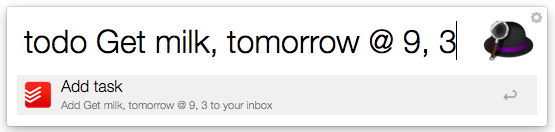
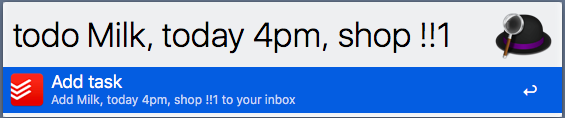
Added 'add to project' and 'add label to task features'

diff --git a/src/index.js b/src/index.js
@@ -51,14 +51,11 @@ var calls = {
    * Get a list of projects from Todoist.
    *
    * @author moranje <martieno@gmail.com>
+   * @param {String} name The project's name.
    * @since  2016-07-04
    * @return {Object}
    */
-  getProjects: function() {
-    var list = {
-      items: []
-    };
-
+  getProjects: function( name ) {
     todoist.getProjects( settings.token, function( res ) {
       var response = JSON.parse( res );
       var projects = {};
@@ -67,9 +64,41 @@ var calls = {
         projects[ project.name.toLowerCase() ] = project.id;
       } );
 
-      settings.projects = projects;
+      if ( name ) {
+        return echo( projects[ name ] );
+      }
 
-      return echo( 'Projects updated' );
+      return echo( projects );
+    }, function( err ) {
+      // The 'Error' suffix signals something has failed to the notification
+      // handler
+      console.log( 'Error', err );
+    } );
+  },
+
+  /**
+   * Get a list of labels from Todoist.
+   *
+   * @author moranje <martieno@gmail.com>
+   * @param {String} string The label names string.
+   * @since  2016-07-04
+   * @return {Object}
+   */
+  getLabels: function( string ) {
+    todoist.getLabels( settings.token, function( res ) {
+      var response = JSON.parse( res );
+      var names = string.split( ',' );
+      var labels = [];
+
+      response.labels.forEach( function( label, index ) {
+        names.forEach( function ( name ) {
+          if ( string && name === label.name ) {
+            labels.push( label.id );
+          }
+        });
+      } );
+
+      return echo( labels );
     }, function( err ) {
       // The 'Error' suffix signals something has failed to the notification
       // handler
@@ -81,11 +110,12 @@ var calls = {
    * Mark a todo item 'done'.
    *
    * @author moranje <martieno@gmail.com>
+   * @param {String|Number} id The task's id.
    * @since  2016-07-03
    * @return {String}
    */
-  markDone: function() {
-    todoist.markTaskDone( arg, settings.token, function( res ) {
+  markDone: function( id ) {
+    todoist.markTaskDone( id, settings.token, function( res ) {
       // Notification message.
       echo( 'Done, done and done!' );
     }, function( err ) {
@@ -111,4 +141,4 @@ function echo( response ) {
 /**
  * This returns the call to the Todoist API
  */
-calls[ call ]();
+calls[ call ]( arg );

diff --git a/src/todoist.js b/src/todoist.js
@@ -86,6 +86,42 @@ function getTasks( token, success, error ) {
 }
 
 /**
+ * Get a list of projects.
+ *
+ * @author moranje <martieno@gmail.com>
+ * @since  2016-07-04
+ * @param  {String}   token   A Todoist token.
+ * @param  {Function} success The success callback.
+ * @param  {Function} error   The error callback.
+ * @return {String}
+ */
+function getProjects( token, success, error ) {
+  return api( {
+    token: token,
+    seq_no: 0,
+    resource_types: '["projects"]'
+  }, success, error );
+}
+
+/**
+ * Get a list of labels.
+ *
+ * @author moranje <martieno@gmail.com>
+ * @since  2016-08-23
+ * @param  {String}   token   A Todoist token.
+ * @param  {Function} success The success callback.
+ * @param  {Function} error   The error callback.
+ * @return {String}
+ */
+function getLabels( token, success, error ) {
+  return api( {
+    token: token,
+    seq_no: 0,
+    resource_types: '["labels"]'
+  }, success, error );
+}
+
+/**
  * Mark a task 'done'.
  *
  * @author moranje <martieno@gmail.com>
@@ -111,5 +147,7 @@ function markTaskDone( id, token, success, error ) {
 
 module.exports = {
   getTasks: getTasks,
+  getProjects: getProjects,
+  getLabels: getLabels,
   markTaskDone: markTaskDone
 };

diff --git a/README.md b/README.md
@@ -1,7 +1,7 @@
 # ALFRED TODOIST WORKFLOW
-Add tasks to your [Todoist](https://todoist.com/ "Todoist") inbox or list upcoming tasks straight from [Alfred](https://www.alfredapp.com "Alfred"). I nicked the idea from [Ruben Schmidtmann](https://github.com/rubenschmidtmann "Ruben Schmidtmann")'s [todoist-alfred-workflow](https://github.com/rubenschmidtmann/todoist-alfred-workflow "todoist-alfred-workflow"), and further expanded on it. It uses Todoist `v7` API.
+Add tasks to your [Todoist](https://todoist.com/ "Todoist") inbox or list upcoming tasks straight from [Alfred](https://www.alfredapp.com "Alfred"). I nicked the idea from [Ruben Schmidtmann](https://github.com/rubenschmidtmann "Ruben Schmidtmann")'s [todoist-alfred-workflow](https://github.com/rubenschmidtmann/todoist-alfred-workflow "todoist-alfred-workflow"), and further expanded on it. It uses Todoist `v7` API. For this workflow to work you need version `3.x` of Alfred.
 
-The task listing feature relies on javascript (sorry no PHP, perl of ruby foo) which means it needs node.js to function (OSX javascript proved to be clunky for modules and file io). The task adding feature should work on any Mac OSX version.
+The task listing feature, adding project and labels to tasks relies on javascript (sorry no PHP, perl of ruby foo) which means it needs node.js to function (OSX javascript proved to be clunky for modules and file io). The task adding feature should work on any Mac OSX version.
 
 ## Installation
 [Download](https://github.com/moranje/alfred-workflow-todoist/raw/master/dist/Alfred%20Workflow%20Todoist.alfredworkflow) and import workflow.
@@ -40,8 +40,10 @@ Uninstall Homebrew (terminal): _ruby -e "$(curl -fsSL https://raw.githubusercont
 ![](https://raw.githubusercontent.com/moranje/alfred-workflow-todoist/master/images/add-task.png "Add a task to your Todoist Inbox")  
 
 **Add a task**  
-`todo {task}, {date}, {priority}`  
-Example: _todo Get milk, tomorrow @ 9, 3_  
+`todo {task}, {date}, {project}` _{priority} and {labels} can go anywhere_  
+Example: _todo Get stuff done, tomorrow @ 9, work_  
+Example: _todo Build tree house, tomorrow @ 9, home !!2_  
+Example: _todo Get milk, tomorrow @ 9, home @on_road @5min  
 
 ### Task
 Can be any string as long as there are no comma's in it. Markdown in the string will be parsed, but anything else won't.
@@ -49,16 +51,31 @@ Can be any string as long as there are no comma's in it. Markdown in the string 
 ### Date
 See the [Todoist documentation](https://support.todoist.com/hc/en-us/articles/205325931-Dates-and-Times "Todoist documentation") for supported date formats.
 
-### Priority
-A number between 1 and 4, where 1 is the lowest and 4 would be the highest priority.
+### Project*
+Add task to an existing project. If no project is selected the task will be added to your inbox.
 
+### Labels*
+You can now add labels to your tasks. Any string that has a `@` before it will be checked against your existing labels. If it matches (case insensitive) the label will be added. The labels can be added anywhere in the todo command so these are all valid:  
+Example: _todo Get stuff done, tomorrow @ 9, work @delayed_  
+Example: _todo Get stuff done , tomorrow @ 9 @delayed, work_  
+Example: _todo Get stuff done @delayed, tomorrow @ 9, work @delayed_  
+
+### Priority
+A number between 1 and 4, where 1 is the lowest and 4 would be the highest priority. The priority tags can be added anywhere in the todo command so these are all valid:  
+Example: _todo Get stuff done, tomorrow @ 9, work !!2_  
+Example: _todo Get stuff done , tomorrow @ 9 !!2, work_  
+Example: _todo Get stuff done !!2, tomorrow @ 9, work_  
+
+*_Relies on node.js to work_
+
+### Hacks
 Use a comma to separate the parameters, leading or trailing whitespace is ignored. If you wish to change the delimiter with which the parameters (task, date and priority) are separated, you'll need to change a line in the bash script. For instance if you'd like to use ';' as a delimiter, change:  
 ```bash
-IFS=',' read -r -a items <<< "{query}"
+IFS=',' read -r -a items <<< "query"
 ```  
 to:    
 ```bash
-IFS=':' read -r -a items <<< "{query}"
+IFS=':' read -r -a items <<< "query"
 ```  
 
 ![](https://raw.githubusercontent.com/moranje/alfred-workflow-todoist/master/images/list-tasks.png "List your Todoist tasks ")  

diff --git a/CHANGELOG.md b/CHANGELOG.md
@@ -1,5 +1,10 @@
 # Changelog
 
+### 3.0.0
+- [FEATURE] Add labels to your tasks
+- [FEATURE] Add a task to an existing project
+- [BREAKING] Changed the API
+
 ### 2.0.1
 - [FIX] Auto create missing workflow directory, thanks etaming!
 
@@ -13,13 +18,14 @@
 - [FEATURE]: Updated to Todoist API v7 
 
 ### 1.0.1
-  * [FIX] Undo bundle id change, since it's needed for updating packal
+- [FIX] Undo bundle id change, since it's needed for updating packal
 
-### 1.0.0_   * [BREAKING]: changed bundle id from `com.alfred-workflow-todoist` tot `com.moranje.alfred-workflow-todoist`
-  * [FEATURE]: Easier configuration with `todo:config {api token}, {language}, {max list items}`, see README.md for further reference
+### 1.0.0   
+- [BREAKING]: changed bundle id from `com.alfred-workflow-todoist` tot `com.moranje.alfred-workflow-todoist`
+- [FEATURE]: Easier configuration with `todo:config {api token}, {language}, {max list items}`, see README.md for further reference
 
 ### 0.6.0
-  * [FEATURE]: List tasks using `todo` and mark a task done using navigation + ENTER
+- [FEATURE]: List tasks using `todo` and mark a task done using navigation + ENTER
 
 ### 0.5.0
-  * initial release
+- initial release
